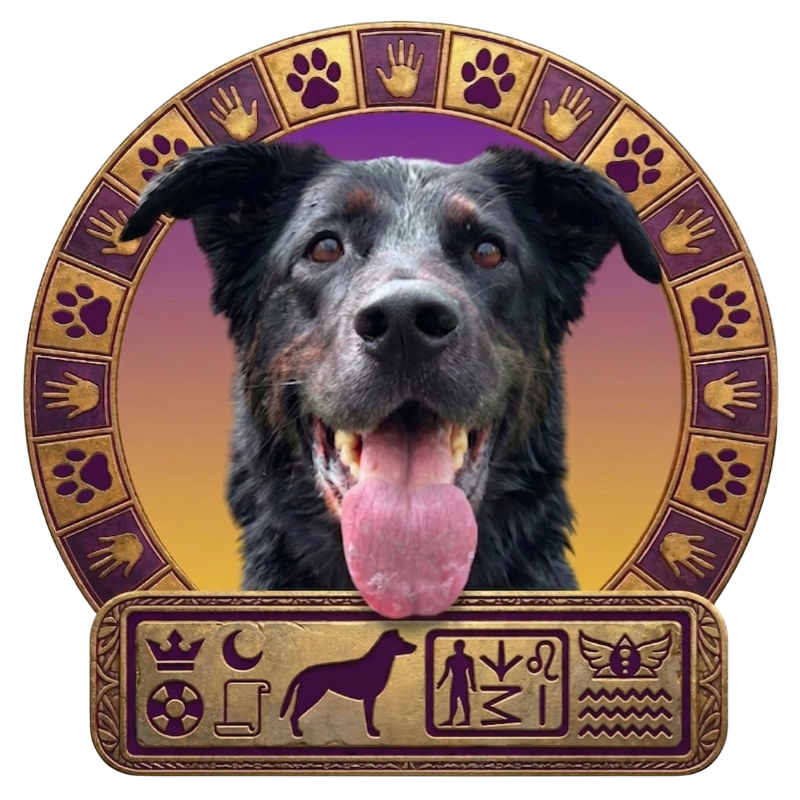
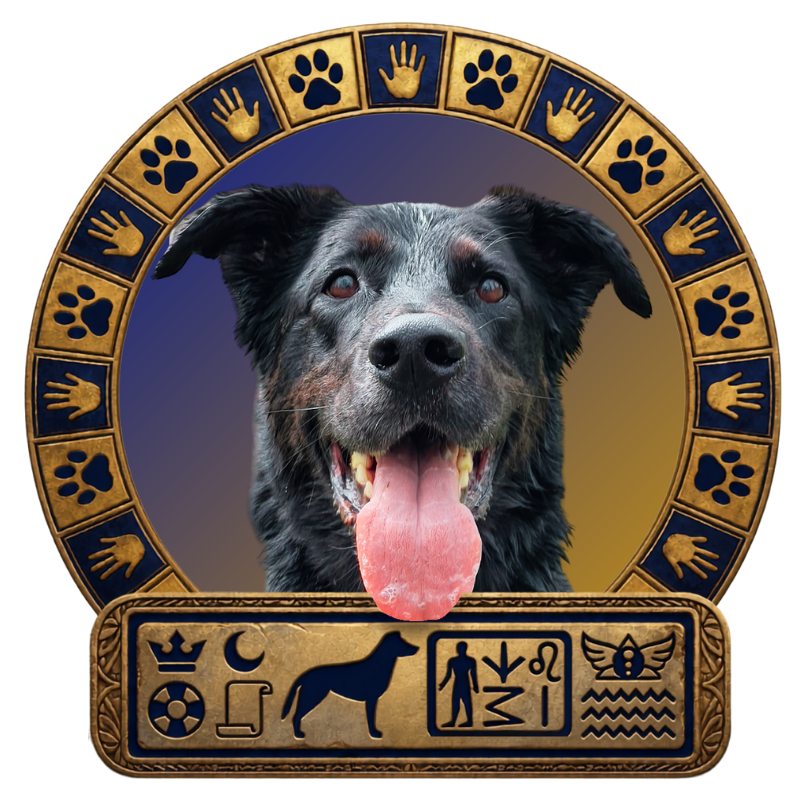
Brand: Egyptian Blue dark bg site-wide (grid+flow+public) + Hektor flow foto + top header scrim
- bg-dark.png (shared .dark-bg + grid) black->Egyptian Blue (grid-new2)
- src/assets/hekthor.png -> hekyflownew.png (drives all 19 flow screens + FounderInvite)
- GodsGrid bg-color #050505->#00081e (no black load flash)
- .dark-bg::after top scrim rgba(0,8,30) so header darkens into content (restores old dark-top look in Egyptian Blue)

diff --git a/src/index.css b/src/index.css
@@ -172,6 +172,18 @@ body {
   filter: blur(3px);
   z-index: 0;
 }
+/* Top scrim — header sa zatmaví a plynulo prejde do obsahu (Egyptian Blue, predtým to robilo tmavé bg-dark.png hore) */
+.dark-bg::after {
+  content: '';
+  position: fixed;
+  top: 0;
+  left: 0;
+  right: 0;
+  height: 180px;
+  background: linear-gradient(to bottom, rgba(0,8,30,0.95) 0%, rgba(0,8,30,0.6) 45%, rgba(0,8,30,0) 100%);
+  z-index: 0;
+  pointer-events: none;
+}
 .dark-bg > * {
   position: relative;
   z-index: 1;

diff --git a/src/components/gods/GodsGrid.tsx b/src/components/gods/GodsGrid.tsx
@@ -660,7 +660,7 @@ export function GodsGrid() {
         .gods-root {
           position: fixed;
           inset: 0;
-          background-color: #050505;
+          background-color: #00081e;
           font-family: system-ui, -apple-system, sans-serif;
           letter-spacing: -0.02em;
           user-select: none;
